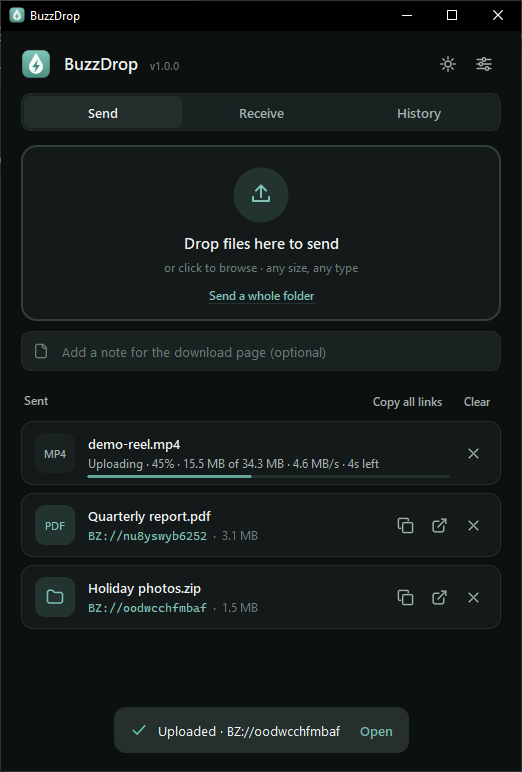
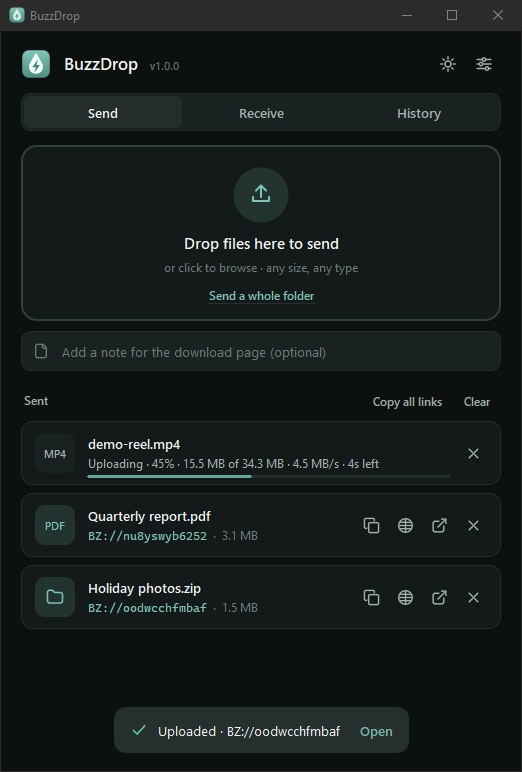
Add opt-in history cleanup and a copy button for each link kind; refresh screenshots

diff --git a/buzzdrop/gui/app.py b/buzzdrop/gui/app.py
@@ -19,7 +19,7 @@ from tkinter import filedialog, messagebox
 from typing import Any, Callable, Dict, List, Optional
 
 from .. import APP_ID, APP_NAME, REPO_URL, __version__, integration, updater
-from ..config import History, data_dir, download_dir, load_settings, save_settings
+from ..config import History, apply_history_policy, data_dir, download_dir, load_settings, save_settings
 from ..desktop import check_for_update, notify as desktop_notify, system_prefers_dark
 from ..transfers import CANCELLED, DONE, FAILED, QUEUED, RECEIVE, RUNNING, SEND, Job, TransferManager, describe
 from ..util import (IS_MAC, IS_WIN, find_codes, format_ago, format_size, open_path, open_url, parse_codes,
@@ -213,7 +213,8 @@ class TransferRow(_Row):
         remove = ("x", "Remove from list", lambda: a.remove_row(j))
         if j.state == DONE and j.kind == SEND:
             code = j.result["code"]
-            return [("copy", "Copy link", lambda: a.copy_link(code)),
+            return [("copy", "Copy BZ:// link (for people who use BuzzDrop)", lambda: a.copy_link(code, "bz")),
+                    ("globe", "Copy web link (works for anyone)", lambda: a.copy_link(code, "https")),
                     ("external", "Open download page", lambda: open_url(web_link(code))), remove]
         if j.state == DONE:
             target = j.result.get("extracted") or j.result.get("path")
@@ -325,7 +326,8 @@ class HistoryRow(_Row):
         self.draw_badge(None, "upload" if sent else "download", c.accent_soft if sent else c.info_soft,
                         c.accent_ink if sent else c.info)
         code = e.get("code", "")
-        acts = [("copy", "Copy link", lambda: self.app.copy_link(code))]
+        acts = [("copy", "Copy BZ:// link (for people who use BuzzDrop)", lambda: self.app.copy_link(code, "bz")),
+                ("globe", "Copy web link (works for anyone)", lambda: self.app.copy_link(code, "https"))]
         if not sent and self._path():
             acts.append(("folder", "Show in folder", lambda: self.app.reveal(self._path())))
         elif not sent:
@@ -807,8 +809,9 @@ class App:
         self._auto_opens = recent
         return True
 
-    def copy_link(self, code: str) -> None:
-        link = share_link(code, self.settings.get("link_style", "bz"))
+    def copy_link(self, code: str, style: Optional[str] = None) -> None:
+        """Copy a link. *style* "bz" or "https" picks the kind; None follows the Link style setting."""
+        link = share_link(code, style or self.settings.get("link_style", "bz"))
         if self.copy(link):
             self.toast("Copied %s" % link, "success")
 
@@ -905,6 +908,24 @@ class App:
                      font=ui.f.small, fg=c.text3, bg=c.bg).pack(pady=ui.px(10))
         self.hist_list.scroll_top()
         self._hist_dirty = False
+
+    def _apply_history_policy(self, closing: bool = False) -> None:
+        """The opt-in "forget my history automatically" setting (off by default)."""
+        try:
+            removed = apply_history_policy(self.history, self.settings, closing)
+        except Exception as exc:  # never let housekeeping disturb the app
+            log.warning("history cleanup failed: %s", exc)
+            return
+        if removed and not closing:
+            self._hist_dirty = True
+            if self.page == "history" and not self.in_settings:
+                self._render_history()
+
+    def _history_timer(self) -> None:
+        if self._closing:
+            return
+        self._apply_history_policy()
+        self.root.after(30 * 60 * 1000, self._history_timer)   # left running for days? check every 30 minutes
 
     def remove_history(self, entry: Dict[str, Any]) -> None:
         self.history.remove(entry)
@@ -1072,7 +1093,8 @@ class App:
             "haven't copied anything else since. (Windows' own Win+V history keeps its own copy.)" if IS_WIN else
             "Removes the link from your clipboard — only if you haven't copied anything else since.",
             seg("clear_clipboard_s", [("0", "Off"), ("30", "30 s"), ("60", "1 min"), ("300", "5 min")], width=250))
-        row(card, "Link style", "https:// links are clickable in every chat app; BZ:// links open BuzzDrop.",
+        row(card, "Link style", "What BuzzDrop copies for you automatically. https:// links are clickable in every "
+            "chat app; BZ:// links open BuzzDrop. Every finished upload also has a button for each kind.",
             seg("link_style", [("bz", "BZ://"), ("https", "https://")], after=lambda v: self._refresh_rows(), width=170))
         row(card, "Send multiple files as one ZIP", "One link for everything you drop at once.",
             toggle("bundle_multiple"))
@@ -1108,6 +1130,29 @@ class App:
                 after=lambda v: self.root.after(180, lambda: self.rebuild(settings_open=True))))
         row(card, "Notifications", "Tell me when a transfer finishes while I'm in another app.",
             toggle("notifications"))
+
+        # -- Privacy
+        card = section("Privacy")
+        self._history_keep_prev = int(self.settings.get("history_keep_days") or 0)
+
+        def history_changed(v: str) -> None:
+            keep = int(v)
+            self.history.reload()
+            n = self.history.older_than(keep) if keep > 0 else 0
+            if n and not messagebox.askyesno(
+                    APP_NAME, "This forgets %d entr%s older than %d day%s from your history.\n"
+                    "(Only the list: files and shared links are not touched.)\n\nContinue?"
+                    % (n, "y" if n == 1 else "ies", keep, "" if keep == 1 else "s"), parent=self.root):
+                self._save("history_keep_days", self._history_keep_prev)   # changed their mind
+                self.root.after(60, lambda: self.rebuild(settings_open=True))
+                return
+            self._history_keep_prev = keep
+            self._apply_history_policy()
+        row(card, "Forget my history automatically", "Removes the list of what you sent and received, and "
+            "nothing else: files you downloaded and links you shared are not touched. “On exit” means when you "
+            "quit BuzzDrop (closing the window to the tray doesn't count). Off by default.",
+            seg("history_keep_days", [("0", "Off"), ("-1", "On exit"), ("1", "1 day"), ("7", "7 days"),
+                                      ("30", "30 days")], after=history_changed, width=340))
 
         # -- Integration
         card = section("System integration")
@@ -1534,6 +1579,8 @@ class App:
             threading.Thread(target=integration.heal, daemon=True).start()
         if s.get("check_for_updates", True) and time.time() - float(s.get("last_update_check") or 0) > 86400:
             self._check_updates(manual=False)
+        self._apply_history_policy()
+        self.root.after(30 * 60 * 1000, self._history_timer)
         exe = updater.current_exe()
         if exe is not None:  # once the app has run fine for a while, drop the previous version's backup
             def tidy() -> None:
@@ -1749,6 +1796,7 @@ class App:
             if self.manager.busy and time.monotonic() < deadline:
                 self.root.after(50, wait)
             else:
+                self._apply_history_policy(closing=True)   # "forget on quit", after cancelled transfers settled
                 self.root.destroy()
         wait()
 

diff --git a/tests/test_gui.py b/tests/test_gui.py
@@ -217,6 +217,75 @@ class GuiEndToEnd(unittest.TestCase):
             except tk.TclError:
                 pass
 
+    def test_each_upload_offers_both_kinds_of_link(self):
+        import tkinter as tk
+        from buzzdrop.gui import app as A, draw
+        from buzzdrop.transfers import DONE, SEND, Job
+
+        self.assertEqual(len(draw.icon_rgba("globe", 24, "#ffffff")), 24 * 24 * 4)   # the new icon renders
+        root = tk.Tk()
+        root.withdraw()
+        app = A.App(root, {"cmd": "open"}, None)
+        root.attributes("-alpha", 0.0)
+        copied = []
+        app.copy = lambda text: copied.append(text) or True      # never touch the real clipboard in tests
+        try:
+            job = Job(SEND, "photo.jpg", paths=["photo.jpg"])
+            job.state, job.result = DONE, {"code": "abcd1234efgh", "name": "photo.jpg", "size": 5}
+            app.manager.jobs.append(job)
+            row = app._add_row(job)
+            acts = {tip: fn for _icon, tip, fn in row._actions_for_state()}
+            bz = next(fn for tip, fn in acts.items() if tip.startswith("Copy BZ://"))
+            web = next(fn for tip, fn in acts.items() if tip.startswith("Copy web link"))
+            for style in ("bz", "https"):                          # the setting must not matter
+                app.settings["link_style"] = style
+                bz()
+                web()
+            self.assertEqual(copied, ["BZ://abcd1234efgh", "https://buzzheavier.com/abcd1234efgh"] * 2)
+            app.settings["link_style"] = "https"
+            app.copy_link("abcd1234efgh")                          # no explicit kind: follows the setting
+            self.assertEqual(copied[-1], "https://buzzheavier.com/abcd1234efgh")
+        finally:
+            app.quit()
+            try:
+                self._pump(root, lambda: False, timeout=0.5)
+            except tk.TclError:
+                pass
+
+    def test_history_forgets_automatically_only_when_asked(self):
+        import tkinter as tk
+        from buzzdrop.gui import app as A
+
+        now = time.time()
+        hist = Path(self.tmp.name, "history.json")
+        hist.write_text(json.dumps([
+            {"kind": "send", "name": "recent", "code": "aaaa11112222", "size": 1, "time": now - 60, "path": ""},
+            {"kind": "send", "name": "ancient", "code": "bbbb11112222", "size": 1, "time": now - 40 * 86400, "path": ""}]))
+        root = tk.Tk()
+        root.withdraw()
+        app = A.App(root, {"cmd": "open"}, None)
+        root.attributes("-alpha", 0.0)
+        try:
+            root.update()
+            names = lambda: [e["name"] for e in json.loads(hist.read_text())]
+            app._apply_history_policy()                       # default: off, nothing is forgotten
+            self.assertEqual(names(), ["recent", "ancient"])
+            app.settings["history_keep_days"] = 7             # opted in: older than a week goes
+            app._apply_history_policy()
+            self.assertEqual(names(), ["recent"])
+            app.settings["history_keep_days"] = -1            # "on exit": nothing happens while running …
+            app._apply_history_policy()
+            self.assertEqual(names(), ["recent"])
+            app.quit()                                        # … and everything goes when quitting
+            self._pump(root, lambda: False, timeout=0.8)
+            self.assertEqual(names(), [])
+        finally:
+            try:
+                app.quit()
+                self._pump(root, lambda: False, timeout=0.3)
+            except tk.TclError:
+                pass
+
     def test_colour_change_swaps_in_one_complete_page(self):
         import tkinter as tk
         from buzzdrop.gui import app as A

diff --git a/tests/test_app.py b/tests/test_app.py
@@ -92,6 +92,52 @@ class ConfigTests(TempData):
         from buzzdrop.gui import theme
         self.assertEqual(theme.build_palette(True, "nope", "nope"), theme.build_palette(True, "teal", "default"))
 
+    def _write_history(self, now):
+        entries = [
+            {"kind": "send", "name": "new", "code": "aaaa11112222", "size": 1, "time": now - 3600, "path": ""},
+            {"kind": "send", "name": "week", "code": "bbbb11112222", "size": 1, "time": now - 6 * 86400, "path": ""},
+            {"kind": "receive", "name": "old", "code": "cccc11112222", "size": 1, "time": now - 40 * 86400, "path": ""},
+            {"kind": "receive", "name": "no-time", "code": "dddd11112222", "size": 1, "path": ""},
+        ]
+        Path(self.tmp.name, "history.json").write_text(json.dumps(entries))
+        return config.History()
+
+    def test_history_prune_forgets_only_old_entries(self):
+        now = time.time()
+        h = self._write_history(now)
+        self.assertEqual(h.older_than(30, now=now), 1)
+        self.assertEqual(h.prune(30, now=now), 1)
+        self.assertEqual([e["name"] for e in h.items], ["new", "week", "no-time"])
+        self.assertEqual(config.History().items, h.items)            # saved to disk
+        self.assertEqual(h.prune(30, now=now), 0)                    # nothing more to forget
+        self.assertEqual(h.prune(1, now=now), 1)                     # "week" goes; the entry without a time is kept
+        self.assertEqual([e["name"] for e in h.items], ["new", "no-time"])
+
+    def test_history_is_kept_forever_unless_the_user_opts_in(self):
+        now = time.time()
+        h = self._write_history(now)
+        self.assertEqual(config.DEFAULTS["history_keep_days"], 0)
+        for closing in (False, True):
+            self.assertEqual(config.apply_history_policy(h, {"history_keep_days": 0}, closing), 0)
+            self.assertEqual(config.apply_history_policy(h, {}, closing), 0)
+        self.assertEqual(len(config.History().items), 4)
+
+    def test_history_policy_n_days_and_on_exit(self):
+        now = time.time()
+        h = self._write_history(now)
+        self.assertEqual(config.apply_history_policy(h, {"history_keep_days": 7}), 1)      # only "old" is >7 days
+        self.assertEqual([e["name"] for e in h.items], ["new", "week", "no-time"])
+        # "on exit" does nothing while the app keeps running …
+        self.assertEqual(config.apply_history_policy(h, {"history_keep_days": -1}, closing=False), 0)
+        self.assertEqual(len(config.History().items), 3)
+        # … and forgets everything when it quits
+        self.assertEqual(config.apply_history_policy(h, {"history_keep_days": -1}, closing=True), 3)
+        self.assertEqual(config.History().items, [])
+        # nonsense in the settings file never deletes anything
+        h = self._write_history(now)
+        self.assertEqual(config.apply_history_policy(h, {"history_keep_days": "soon"}, True), 0)
+        self.assertEqual(len(config.History().items), 4)
+
     def test_corrupt_config_falls_back(self):
         Path(self.tmp.name, "config.json").write_text("{not json")
         self.assertEqual(config.load_settings()["theme"], "system")

diff --git a/buzzdrop/config.py b/buzzdrop/config.py
@@ -147,7 +147,9 @@ DEFAULTS: Dict[str, Any] = {
     "copy_link": True,
     "link_style": "bz",                  # "bz" → BZ://code, "https" → https://buzzheavier.com/code
     "bundle_multiple": False,            # several files → one ZIP / one link
-    "split_mb": 0,                       # optional: >0 → send files bigger than this in parts of this size    # General
+    "split_mb": 0,                       # optional: >0 → send files bigger than this in parts of this size
+    # General
+    "history_keep_days": 0,              # privacy, opt-in: 0 keep forever · -1 forget on quit · N>0 forget entries older than N days
     "theme": "system",                   # system | dark | light
     "accent": "teal",                    # teal | blue | violet | rose | amber | green
     "palette": "default",                # default | ocean | neutral | warm | pure (background colours)
@@ -237,6 +239,49 @@ class History:
         with FileLock(self.path.with_suffix(".lock"), timeout=3):
             self.items = []
             write_json(self.path, [])
+
+    def older_than(self, days: float, now: Optional[float] = None) -> int:
+        """How many entries are older than *days* days (entries without a valid time are never counted)."""
+        cutoff = (time.time() if now is None else now) - days * 86400
+        return sum(1 for i in self._read() if isinstance(i.get("time"), (int, float)) and i["time"] < cutoff)
+
+    def prune(self, days: float, now: Optional[float] = None) -> int:
+        """Forget entries older than *days* days. Returns how many were removed.
+
+        Only this list changes: downloaded files and uploaded links are not touched.
+        """
+        cutoff = (time.time() if now is None else now) - days * 86400
+        with FileLock(self.path.with_suffix(".lock"), timeout=3):
+            items = self._read()
+            kept = [i for i in items if not isinstance(i.get("time"), (int, float)) or i["time"] >= cutoff]
+            removed = len(items) - len(kept)
+            if removed:
+                write_json(self.path, kept)
+            self.items = kept
+        return removed
+
+
+def apply_history_policy(history: History, settings: Dict[str, Any], closing: bool = False) -> int:
+    """Apply the opt-in "forget my history automatically" setting. Returns how many entries were forgotten.
+
+    ``history_keep_days``: 0 = keep forever (default); N > 0 = forget entries older than N days;
+    -1 = forget everything when BuzzDrop quits (only acts when *closing* is true).
+    """
+    try:
+        keep = int(settings.get("history_keep_days") or 0)
+    except (TypeError, ValueError):
+        return 0
+    if keep == 0:
+        return 0
+    if keep < 0:
+        if not closing:
+            return 0
+        history.reload()
+        count = len(history.items)
+        if count:
+            history.clear()
+        return count
+    return history.prune(keep)
 
 
 # --------------------------------------------------------------------------

diff --git a/buzzdrop/cli.py b/buzzdrop/cli.py
@@ -155,7 +155,7 @@ def cmd_send(argv: List[str]) -> int:
     a = p.parse_args(argv)
 
     from .api import Client
-    from .config import History, load_settings, setup_logging
+    from .config import History, apply_history_policy, load_settings, setup_logging
     from .desktop import copy_text
     from .transfers import DONE, SEND, Job, describe, execute
     from .util import share_link
@@ -203,6 +203,7 @@ def cmd_send(argv: List[str]) -> int:
     except KeyboardInterrupt:
         printer.say("Cancelled.")
         return 130
+    apply_history_policy(history, settings, closing=True)   # opt-in privacy setting; a no-op by default
     if links and not a.no_copy and settings.get("copy_link", True):
         if copy_text("\n".join(links)) and not a.json:
             printer.say("Copied to clipboard.")
@@ -220,7 +221,7 @@ def cmd_get(argv: List[str]) -> int:
     a = p.parse_args(argv)
 
     from .api import Client
-    from .config import History, load_settings, setup_logging
+    from .config import History, apply_history_policy, load_settings, setup_logging
     from .transfers import DONE, RECEIVE, Job, describe, execute
     from .util import parse_codes, web_link
 
@@ -257,6 +258,7 @@ def cmd_get(argv: List[str]) -> int:
     except KeyboardInterrupt:
         printer.say("Cancelled.")
         return 130
+    apply_history_policy(history, settings, closing=True)   # opt-in privacy setting; a no-op by default
     if a.json:
         print(json.dumps(results, indent=2))
     return 0 if all(r["ok"] for r in results) else 1

diff --git a/buzzdrop/gui/draw.py b/buzzdrop/gui/draw.py
@@ -204,6 +204,9 @@ ICONS: Dict[str, Callable[[float, float], float]] = {
     "copy": lambda x, y: min(
         abs(d_box(x, y, 15, 15, 7, 7, 2)) - S,
         max(abs(d_box(x, y, 9, 9, 7, 7, 2)) - S, -d_box(x, y, 15, 15, 9, 9, 3))),
+    "globe": lambda x, y: min(
+        abs(d_circle(x, y, 12, 12, 9.5)), d_seg(x, y, 2.5, 12, 21.5, 12), d_seg(x, y, 12, 2.5, 12, 21.5),
+        d_seg(x, y, 3.63, 7.5, 20.37, 7.5), d_seg(x, y, 3.63, 16.5, 20.37, 16.5)) - S,
     "folder": lambda x, y: d_poly(x, y, _p((4, 20), (20, 20), (22, 18), (22, 8), (20, 6), (12.1, 6), (10.4, 5.1),
                                            (9.6, 3.9), (7.9, 3), (4, 3), (2, 5), (2, 18), (4, 20))) - S,
     "external": lambda x, y: min(d_poly(x, y, _p((15, 3), (21, 3), (21, 9))), d_seg(x, y, 10, 14, 21, 3),

diff --git a/CHANGELOG.md b/CHANGELOG.md
@@ -10,6 +10,8 @@ First release of BuzzDrop: drop a file, get a link; click a link, get the file.
 - **One window:** Send / Receive / History tabs, drag & drop, paste-to-send, live speed and time left, light/dark/system themes, notifications, keyboard shortcuts, high-DPI.
 - **Smarter receiving:** resumes after dropped connections, offers to download links you copy, keeps a searchable history, global hotkey on Windows.
 - **Quiet one-click updates (Windows):** download in the background, verified by SHA-256 and test-started before anything is replaced, installed only when you restart or close the app, with the previous version kept as a backup until the new one has run fine. `buzz update` does the same from a terminal.
+- **Both kinds of link, always:** every finished upload (and every History entry) has a button for the `BZ://` link and one for the plain web link, so you can share with people who don't have BuzzDrop without touching a setting.
+- **Opt-in privacy:** *Forget my history automatically* (on quit, or after 1 / 7 / 30 days). Only the list is cleared, never files or links. Off by default.
 - **Reliable sending:** a dropped upload restarts automatically (up to 3 times). Optional split uploads send huge files in separately retried parts; every part is a normal BuzzHeavier file with its own link.
 
 ### Safe by design

diff --git a/README.md b/README.md
@@ -53,7 +53,7 @@ On first launch BuzzDrop makes **BZ:// links open in it** and adds **“Send wit
 - Saves to your real Downloads folder, even if you moved it
 
 **Everything else**
-- History of everything you sent and received, with search and one-click copy
+- History of everything you sent and received, with search and one-click copy. *Optional privacy setting:* forget it automatically when you quit, or after 1 / 7 / 30 days (only the list is cleared, never your files or links). Off by default
 - Light / dark / follow-system theme, six accent colors and five background styles (Default, Ocean, Neutral, Warm, Pure black/white), crisp on high-DPI screens, matching title bar on Windows 11
 - Tray icon + start at login (Windows), desktop notifications
 - **Quiet updates:** a small "Update to x.y.z" button appears in the header. One click downloads it in the background (checked against the release's SHA-256 and test-started first); nothing restarts until you choose **Restart to finish** or close BuzzDrop. Optional: download updates automatically, or **Skip this version**. The macOS and Linux apps only tell you a new version exists
